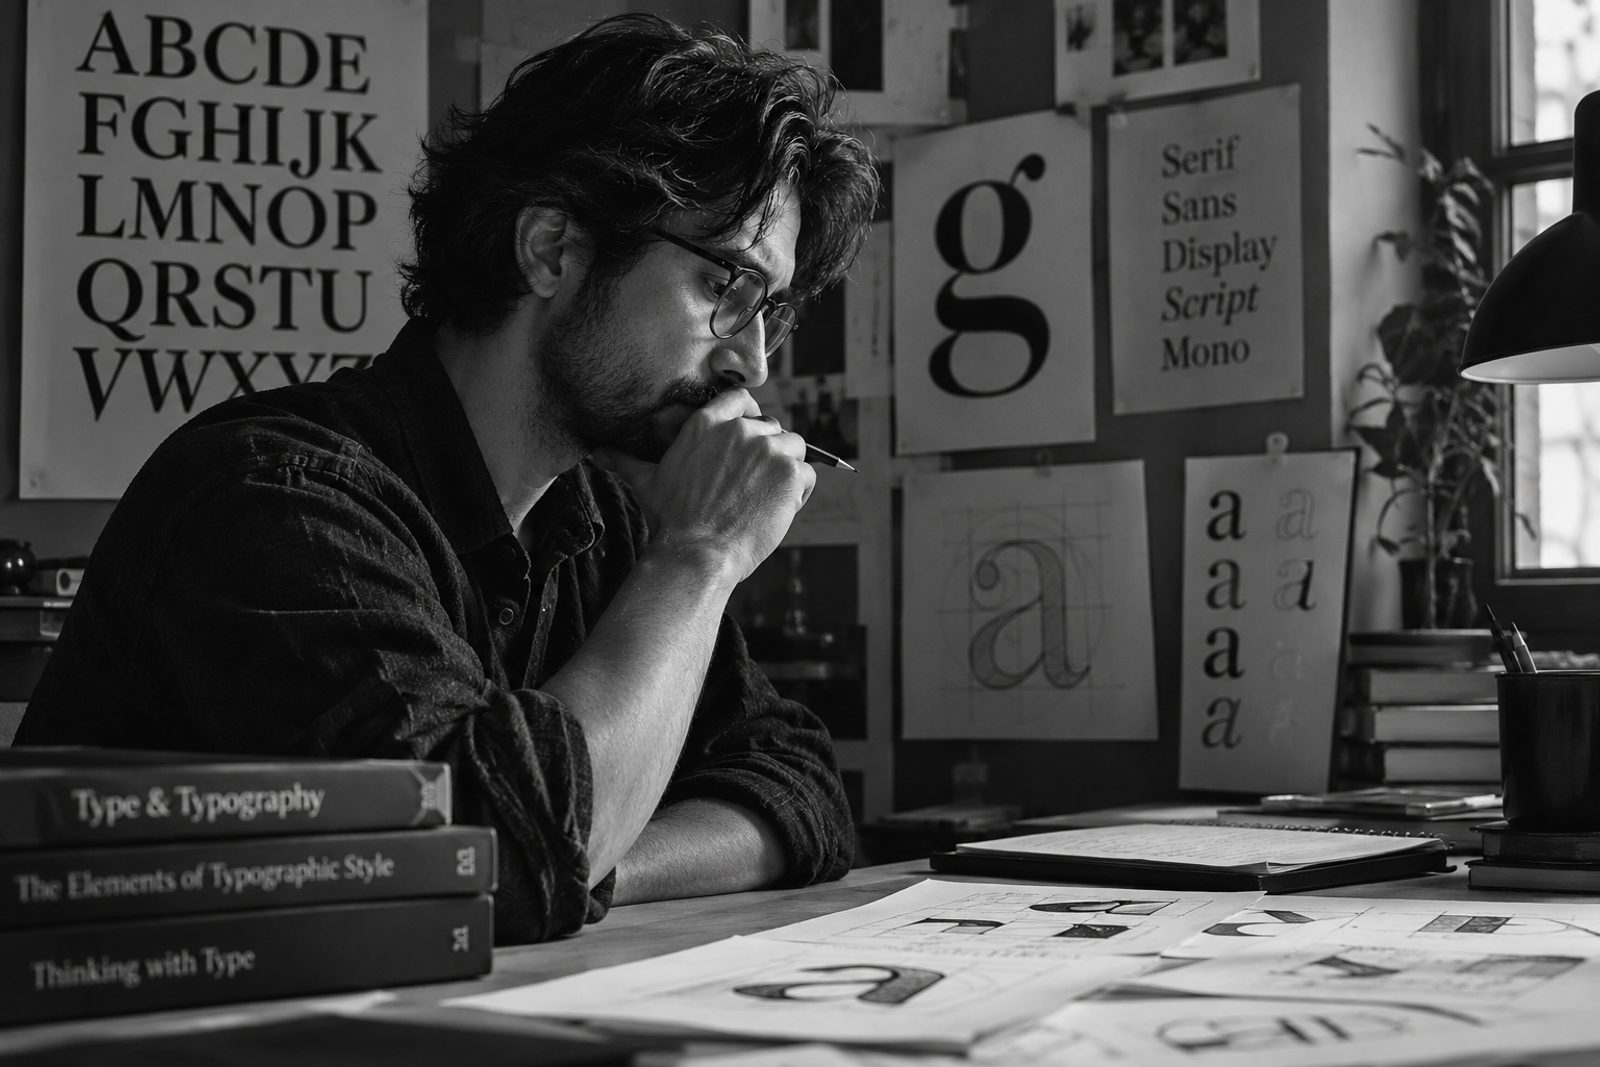
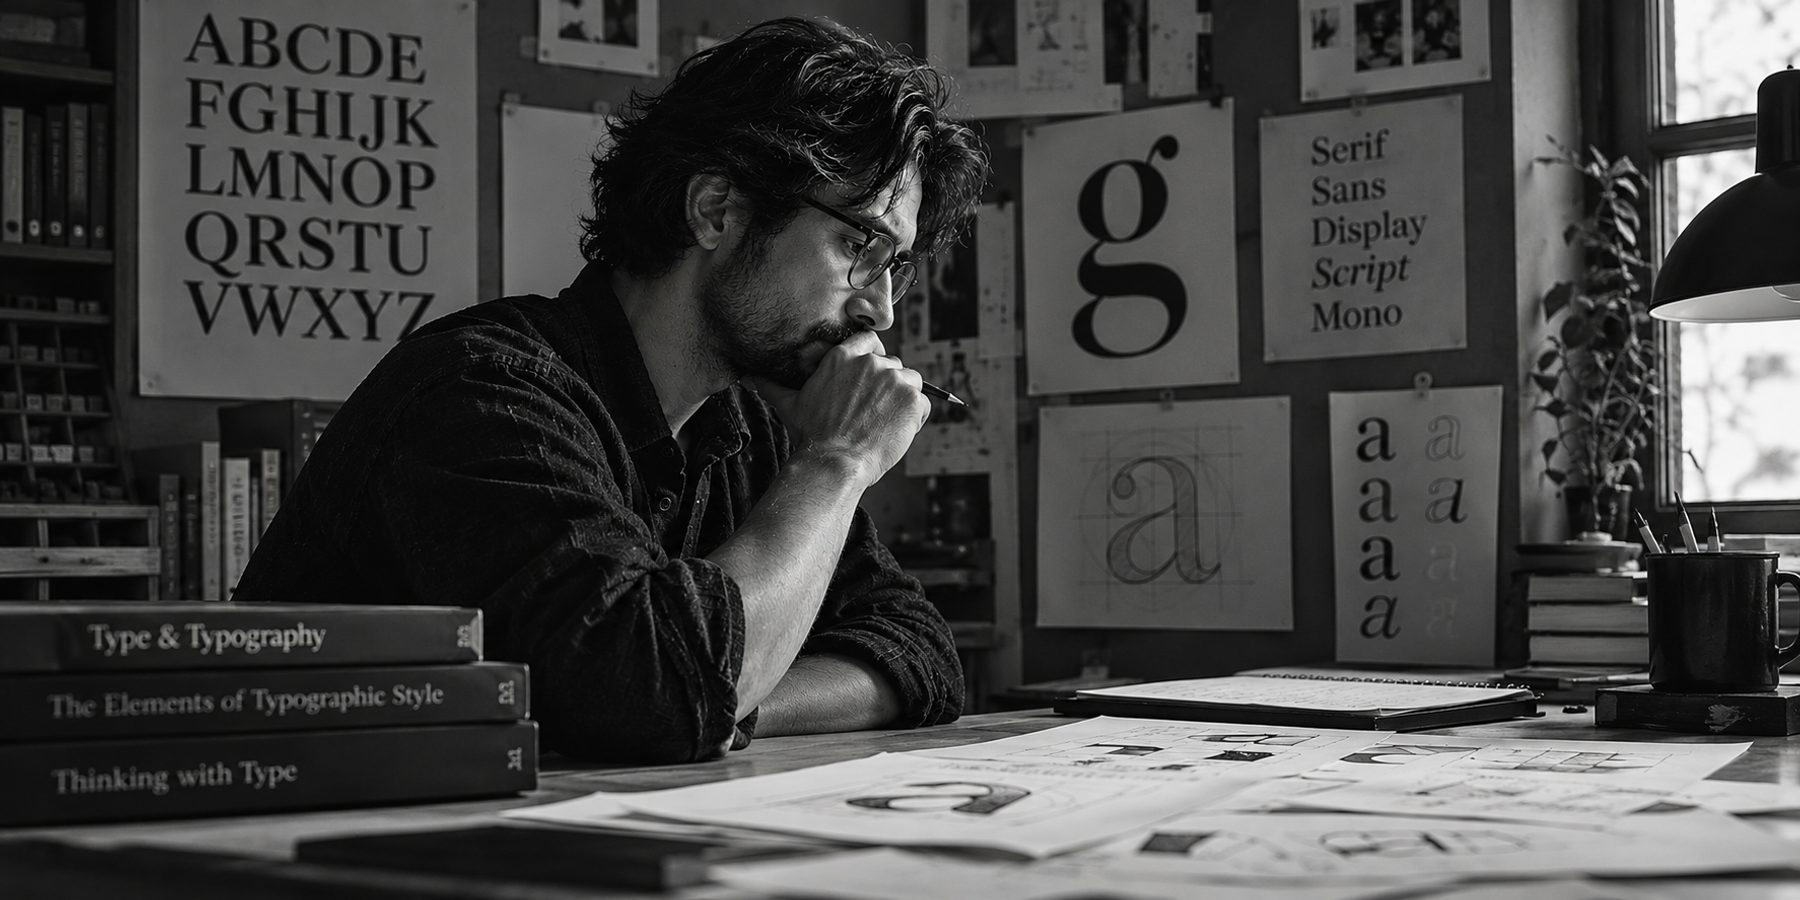
Swap the hero photo for a wider 2:1 crop, shorten the header
User supplied a wider panoramic crop (1774x887, was 1600x1067) of the
same scene specifically to make the header less tall. Retuned the
proportional constants that were tied to the old crop's geometry:
min-height 26vw -> 20vw, .hero-text padding-top 34% -> 26% (both scaled
to the new, shallower aspect ratio so the subject's face still clears
the brand lockup by the same margin). Verified in light/dark mode and
at mobile/desktop widths.

diff --git a/css/style.css b/css/style.css
@@ -128,7 +128,7 @@ body {
    min-height keeps that top slice tall enough on short/compact layouts. */
 .site-header {
   position: relative;
-  min-height: 26vw;
+  min-height: 20vw;
   background-image:
     linear-gradient(rgba(0, 70, 67, 0.6), rgba(0, 70, 67, 0.6) 60%, var(--paper) 100%),
     url("../images/hero-typographer.jpg");
@@ -139,7 +139,7 @@ body {
 
 .hero-text {
   position: relative;
-  padding-top: 34%;
+  padding-top: 26%;
   padding-bottom: clamp(2rem, 5vw, 3rem);
 }
 

diff --git a/DESIGN.md b/DESIGN.md
@@ -204,8 +204,8 @@ Every corner in the system is square — `border-radius: 0` everywhere, with no 
 
 ### Hero (site header photo)
 - **Style:** a full-bleed black-and-white photo (a type designer at their desk) under a fixed teal wash (`rgba(0, 70, 67, 0.6)`, matching the timeline's own Romanesque-era rgba) fading to `paper` by the header's bottom edge. Brand lockup, tagline, and tab nav sit on top in `hero-ink` — a fixed cream that does not swap with light/dark mode, since neither the photo nor its wash do.
-- **Sizing:** the photo, wash, and fade are backgrounds on `.site-header` itself, sized to the header's real (content-driven) height — not a fixed aspect-ratio box — so the fade always lands exactly at the text content's own bottom edge regardless of how tall that content stacks at a given viewport width. `background-position: center top` keeps the photo's own top (the subject's face) intact when a short/compact layout crops the bottom of the frame; `min-height: 26vw` keeps that top slice from getting too thin.
-- **History:** three treatments were previewed (teal duotone / straight-grayscale dark scrim / a contained side panel, not full-bleed) and narrowed to the duotone per explicit request; the brand lockup was then pushed down and shrunk (~18%) after the first pass placed "Classified" directly over the subject's face.
+- **Sizing:** the photo, wash, and fade are backgrounds on `.site-header` itself, sized to the header's real (content-driven) height — not a fixed aspect-ratio box — so the fade always lands exactly at the text content's own bottom edge regardless of how tall that content stacks at a given viewport width. `background-position: center top` keeps the photo's own top (the subject's face) intact when a short/compact layout crops the bottom of the frame; `min-height: 20vw` keeps that top slice from getting too thin. `.hero-text`'s `padding-top: 26%` pushes the brand lockup down past the subject's hand/chin before it starts.
+- **History:** three treatments were previewed (teal duotone / straight-grayscale dark scrim / a contained side panel, not full-bleed) and narrowed to the duotone per explicit request; the brand lockup was then pushed down and shrunk (~18%) after the first pass placed "Classified" directly over the subject's face. The photo itself was swapped once more — a taller 1600:1067 crop first, then a wider 1774:887 (2:1) crop the user supplied afterward specifically to make "the top part not too tall"; `min-height`/`.hero-text` padding were retuned (26vw→20vw, 34%→26%) to match the new crop's shallower proportions.
 
 ### Tabs (header navigation)
 - **Style:** each tab is a vertical dashed rule (`border-left: 1px dashed ink-faint`) topped by a rotated label (`writing-mode: vertical-rl`, Inter, uppercase, tracked). The label is `sealing-wax` colored at all times now (was `ink-faint`/`ink`) — inactive/hover/active states are differentiated by **opacity** (`0.6` / `0.85` / `1`), not by switching color, at the user's request ("explore, identify, timeline etc be in orange").
